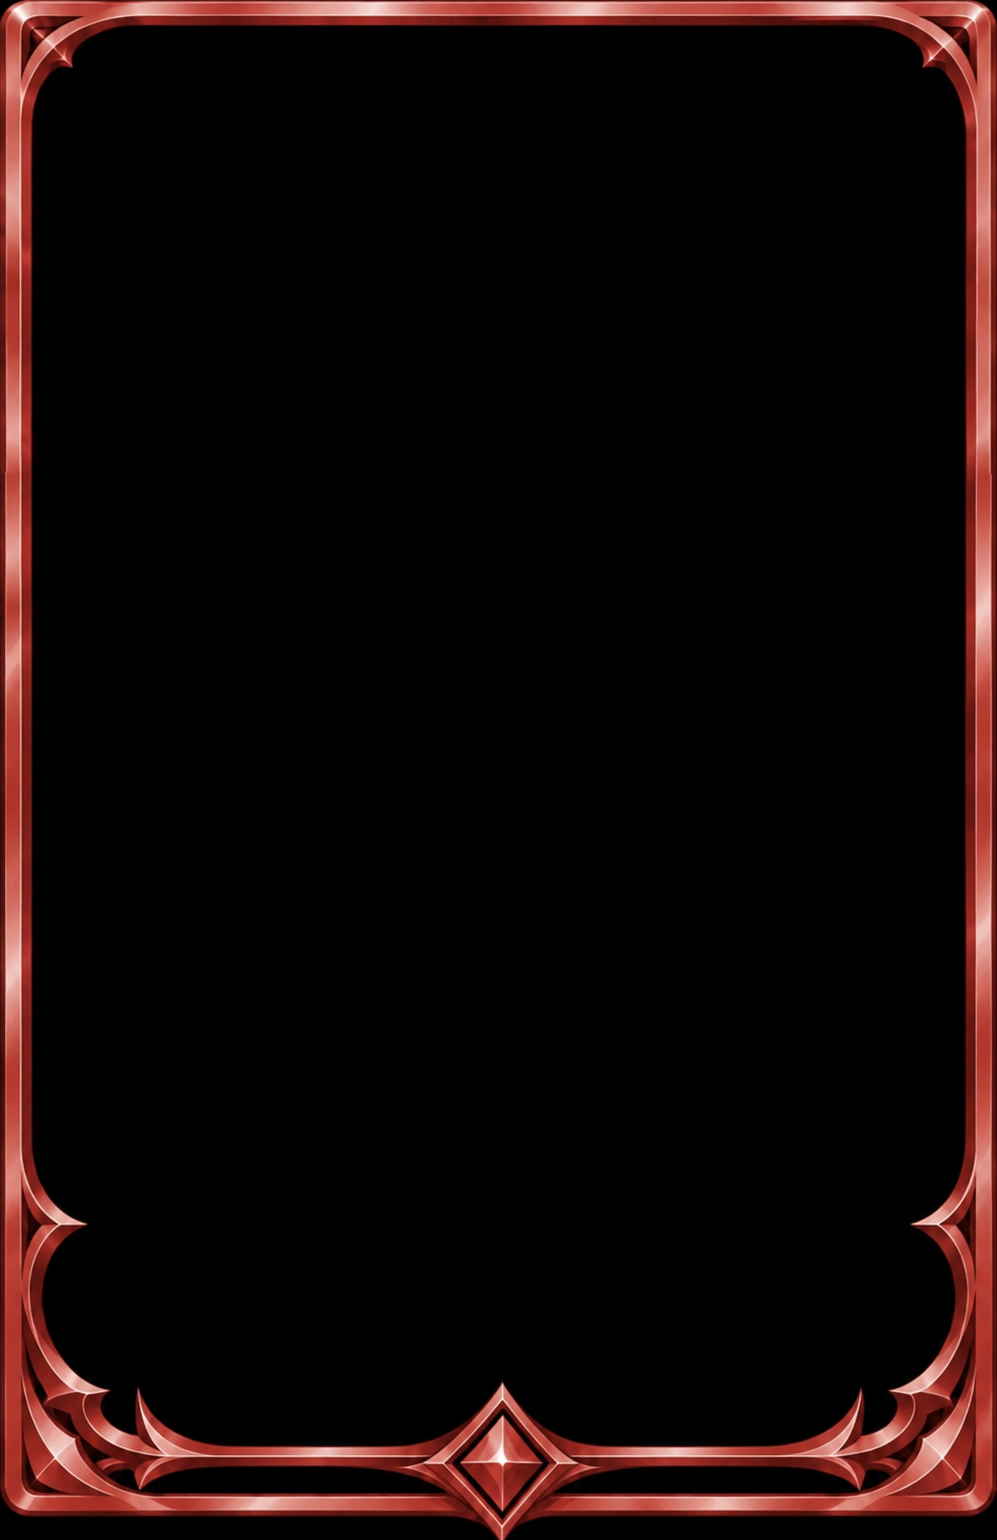
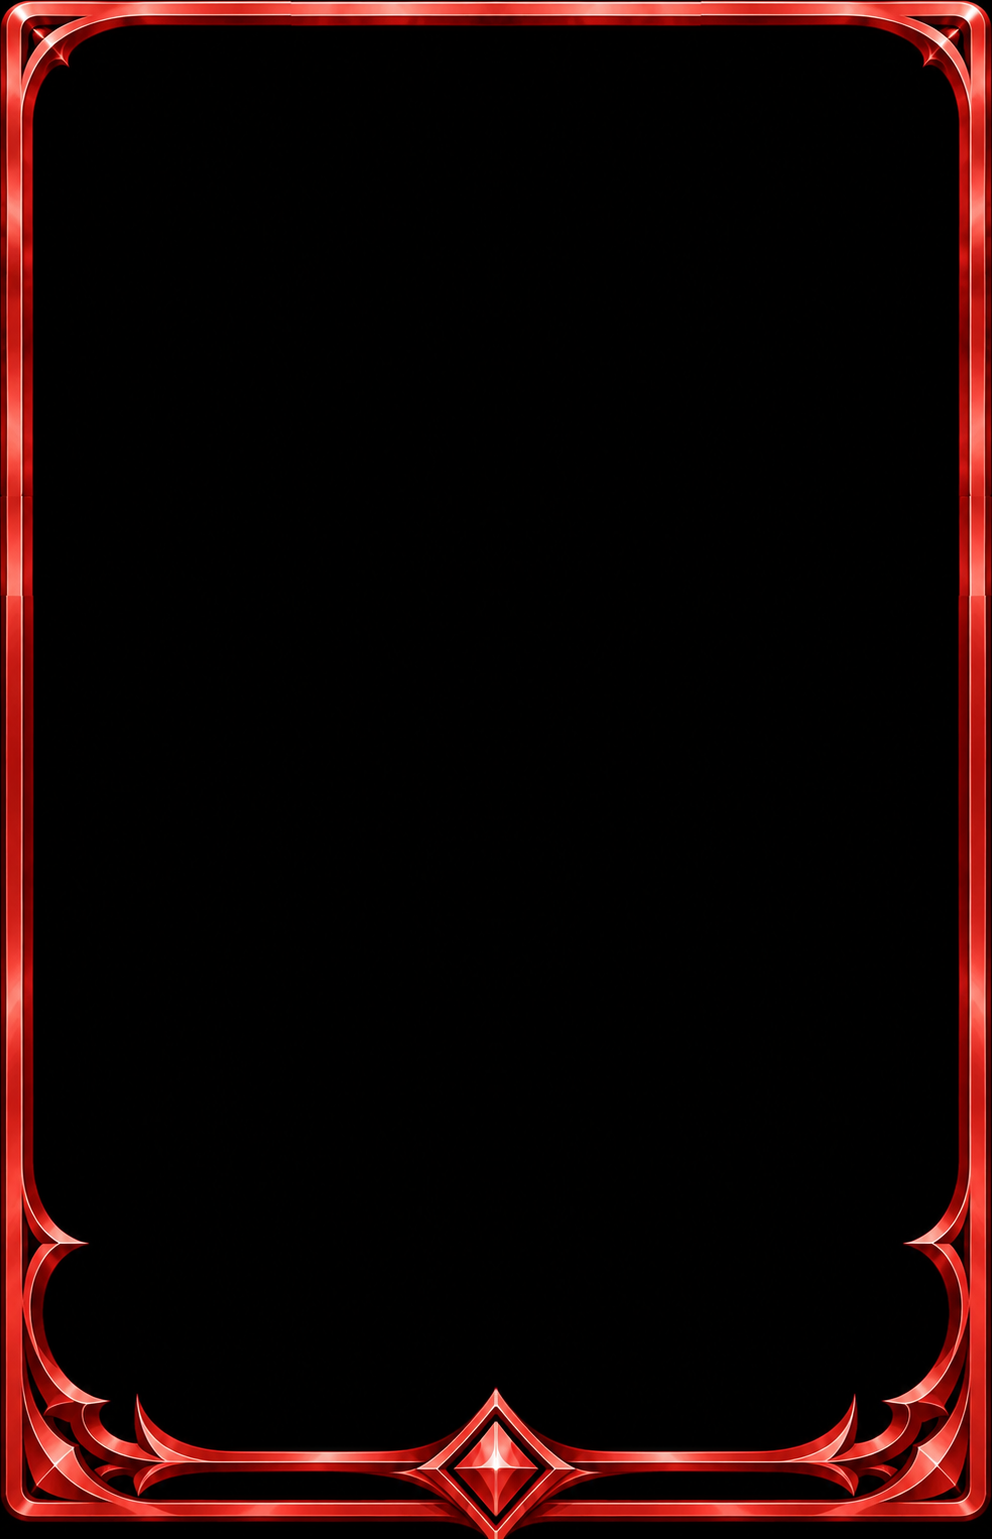
Khung phép chậm đổi sang đỏ thuần
Claude-Session: https://claude.ai/code/session_01XgSG6ZHpn2vMFo1N6yb51c

Changed region(s): [[0.0, 0.0, 1.0, 1.0]]

diff --git a/src/lib/updates.ts b/src/lib/updates.ts
@@ -891,7 +891,7 @@ export const PENDING_NOTES: string[] = [
   "Phép chậm đổi khung sang đỏ rượu vang, kim loại bóng như các khung khác.",
   "Lá phép trên tay bỏ vạch màu dưới đáy (che khung), số mana trong viên nhỏ lại cho vừa.",
   "Lá phép trên tay cùng dạng lá quái: bỏ viền dưới đáy, số mana trắng có glow xanh. Khung phép chậm dùng bản đỏ thẫm, lá không mana cũng có viên mana.",
-  "Phép chậm đổi khung sang đỏ ngả cam. Phép siêu tốc và giải trừ (Hấp thụ ma pháp, Vòng xoáy bảo hộ, Mưa ma thuật) dùng khung trắng bạc.",
+  "Phép chậm đổi khung sang đỏ thuần. Phép siêu tốc và giải trừ (Hấp thụ ma pháp, Vòng xoáy bảo hộ, Mưa ma thuật) dùng khung trắng bạc.",
 ];
 
 function remarkOf(notes: string[]) {

diff --git a/TIEP-TUC.md b/TIEP-TUC.md
@@ -662,4 +662,4 @@ Chủ game trả lời (29/10), CHƯA LÀM gì, chờ "ok" và trả lời câu 
 - VẠCH MÀU + SỐ MANA LÁ PHÉP TRÊN TAY 03/11 (chủ game báo che khung, số to; Sonnet medium, nhánh `ccr-35f3cdfd-q9c3rl`, CHƯA áp `main`): vạch là `.card.is-tier-*::after` (màu theo bậc mana) có từ trước, chỉ khung quái tay (`is-framed`) ẩn nó; thêm lớp `is-hand-spell` (card-face.tsx) ẩn vạch cho lá phép tay. `DEFAULT_SPELL_HAND.gems.size` 18 → 12,5 (chỉ mặc định; máy đã chỉnh tay `clash-spell-hand-v1` giữ số riêng). Chụp 412×915 (`v4/shoot.mjs`).
 - LÁ PHÉP TRÊN TAY CÙNG DẠNG LÁ QUÁI 03/11 (chủ game; Sonnet medium, nhánh `ccr-35f3cdfd-q9c3rl`, CHƯA áp `main`): `card-face.tsx` lá phép tay có `is-hand-spell` và socket mana `is-gems`; styles.css cuối: ẩn `.hand-pick::before` (viền sẫm dưới đáy) cho lá phép tay, số mana TRẮNG viền tối + glow xanh (`#8fdcff`, KHÔNG theo màu bậc vì màu bậc dành cho vạch/khung). Bậc mana thật (`spellTier`): 1 mana cam, 2 đỏ, ≥3 tím, 0 không màu (chủ game nhớ "1 vàng, 2+ đỏ" là lệch); vạch bậc dưới đáy đã ẩn cho lá phép tay. Khung phép chậm = khung 1 (`f1`, đỏ thẫm) cho CẢ `spell-frame-slow.png` và `-nogem.png` (lá không mana cũng có viên mana trống) để chủ game thử; khung 2 và nogem tự tạo bỏ. Chụp 412×915 `v4/shoot.mjs`.
 - KHUNG CHẬM CẮT SÁT 03/11 (chủ game hỏi khung lệch; Sonnet medium, nhánh `ccr-35f3cdfd-q9c3rl`): ảnh khung 1 chủ game gửi có viền đen ~1% quanh (bbox 9,9,11,12 px) nên hình lá lộ ra ngoài khung; các khung khác đã cắt sát (bbox 0). Cắt sát `spell-frame-slow.png` và `-nogem.png` còn 996×1527. Lần sau khung chủ game gửi: cắt theo bbox pixel sáng (max > 60) trước khi đặt vào `public/ui`.
-- KHUNG CHẬM ĐỎ CAM + KHUNG TRẮNG GIẢI TRỪ 03/11 (chủ game chọn khung đỏ 1, gửi khung trắng; Sonnet low; nhánh `ccr-35f3cdfd-q9c3rl`, CHƯA áp `main`): `spell-frame-slow(.-nogem).png` đỏ ngả cam, `spell-frame-super(.-nogem).png` trắng bạc (thay khung xanh dương, còn trong git), cả 4 cắt sát theo pixel sáng. `SPEEDS` (spell-kinds.ts): Hấp thụ ma pháp, Vòng xoáy bảo hộ, Mưa ma thuật chuyển sang super (giải trừ = siêu tốc, cách a); Phản nguyền GIỮ chậm (chưa hỏi chủ game). Màu flow trắng `#E9F3FF` (vành icon `#C9D6EA`), flow hồng `#FF4FA6`. Chụp 412x915.
+- KHUNG CHẬM ĐỎ CAM + KHUNG TRẮNG GIẢI TRỪ 03/11 (chủ game chọn khung đỏ 1, gửi khung trắng; Sonnet low; nhánh `ccr-35f3cdfd-q9c3rl`, CHƯA áp `main`): `spell-frame-slow(.-nogem).png` ĐỎ THUẦN (chủ game 03/11 đổi sang khung đỏ rực, viên mana đỏ giữ nguyên, còn 2 vệt nối mờ ở cạnh trái/phải chưa làm mờ), `spell-frame-super(.-nogem).png` trắng bạc (thay khung xanh dương, còn trong git), cả 4 cắt sát theo pixel sáng. `SPEEDS` (spell-kinds.ts): Hấp thụ ma pháp, Vòng xoáy bảo hộ, Mưa ma thuật chuyển sang super (giải trừ = siêu tốc, cách a); Phản nguyền GIỮ chậm (chưa hỏi chủ game). Màu flow trắng `#E9F3FF` (vành icon `#C9D6EA`), flow hồng `#FF4FA6`. Chụp 412x915.
